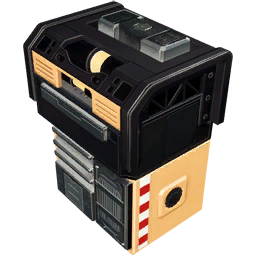
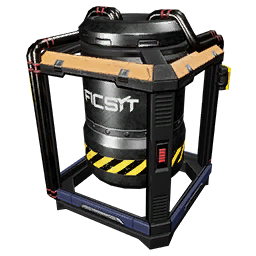
Версия 0.10.3 Исправлены иконка и рецепт суперкомпьютера. Исправлена ошибка в классе SatisfactoryProductionUnit, приводившая к некорректному рассчёту входа/выхода цеха при изменении параметра разгона.

diff --git a/Model/SatisfactoryProductionUnit.cs b/Model/SatisfactoryProductionUnit.cs
@@ -7,6 +7,8 @@ namespace SatisfactoryProductionManager.Model
     public class SatisfactoryProductionUnit : ProductionUnit
     {
         private double _overclock = 100;
+        private double OverclockModifier => _overclock / 100;
+        private double SupposedMachinesCount => MachinesCount * OverclockModifier;
 
         public override SatisfactoryRecipe Recipe { get; }
         public double Overclock
@@ -47,10 +49,14 @@ namespace SatisfactoryProductionManager.Model
 
         protected override void UpdateIO()
         {
-            base.UpdateIO();
+            for (int i = 0; i < _inputs.Length; i++)
+                _inputs[i].CountPerMinute = Recipe.Inputs[i].CountPerMinute * SupposedMachinesCount;
+
+            for (int i = 0; i < _outputs.Length; i++)
+                _outputs[i] = Recipe.Outputs[i] * SupposedMachinesCount;
 
             if (HasByproduct)
-                Byproduct = Recipe.Byproduct.Value * MachinesCount;
+                Byproduct = Recipe.Byproduct.Value * SupposedMachinesCount;
         }
 
         protected override double GetMachinesCount()
